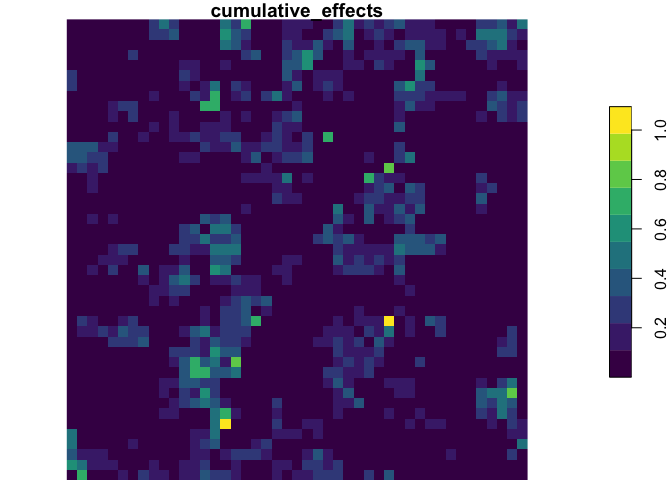
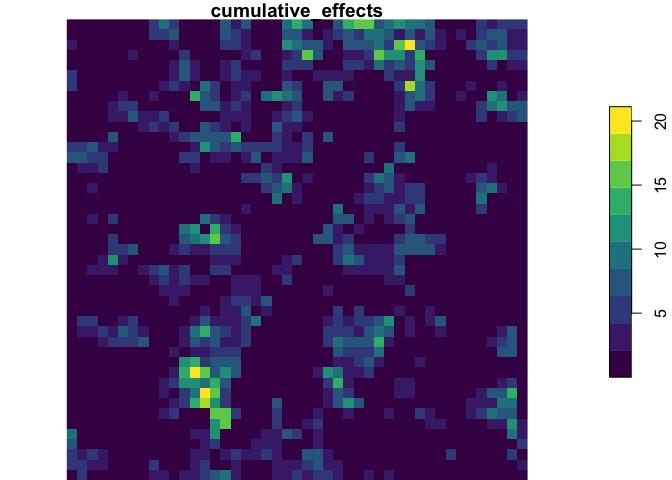
find error with direct-indirect by ungrouping

diff --git a/README.md b/README.md
@@ -54,8 +54,6 @@ vc <- rcea:::vc
 sensitivity <- rcea:::sensitivity
 metaweb <- rcea:::metaweb
 trophic_sensitivity <- rcea::trophic_sensitivity
-trophic_sensitivity$Sensitivity <- trophic_sensitivity$Sensitivity2
-#> Warning: Unknown or uninitialised column: `Sensitivity2`.
 pal <- viridis::viridis
 
 # Plots 
@@ -130,8 +128,6 @@ plot(dat, breaks = "equal", col = pal)
 ``` r
 # Network-scale cumulative effects assessment (Beauchesne et al. 2021)
 beauchesne <- ncea(drivers, vc, sensitivity, metaweb, trophic_sensitivity)
-#> Adding missing grouping variables: `vc_id`
-#> Adding missing grouping variables: `vc_id`
 
 # Net cumulative effects
 dat <- cea_extract(beauchesne$net, cumul_fun = "full") 
